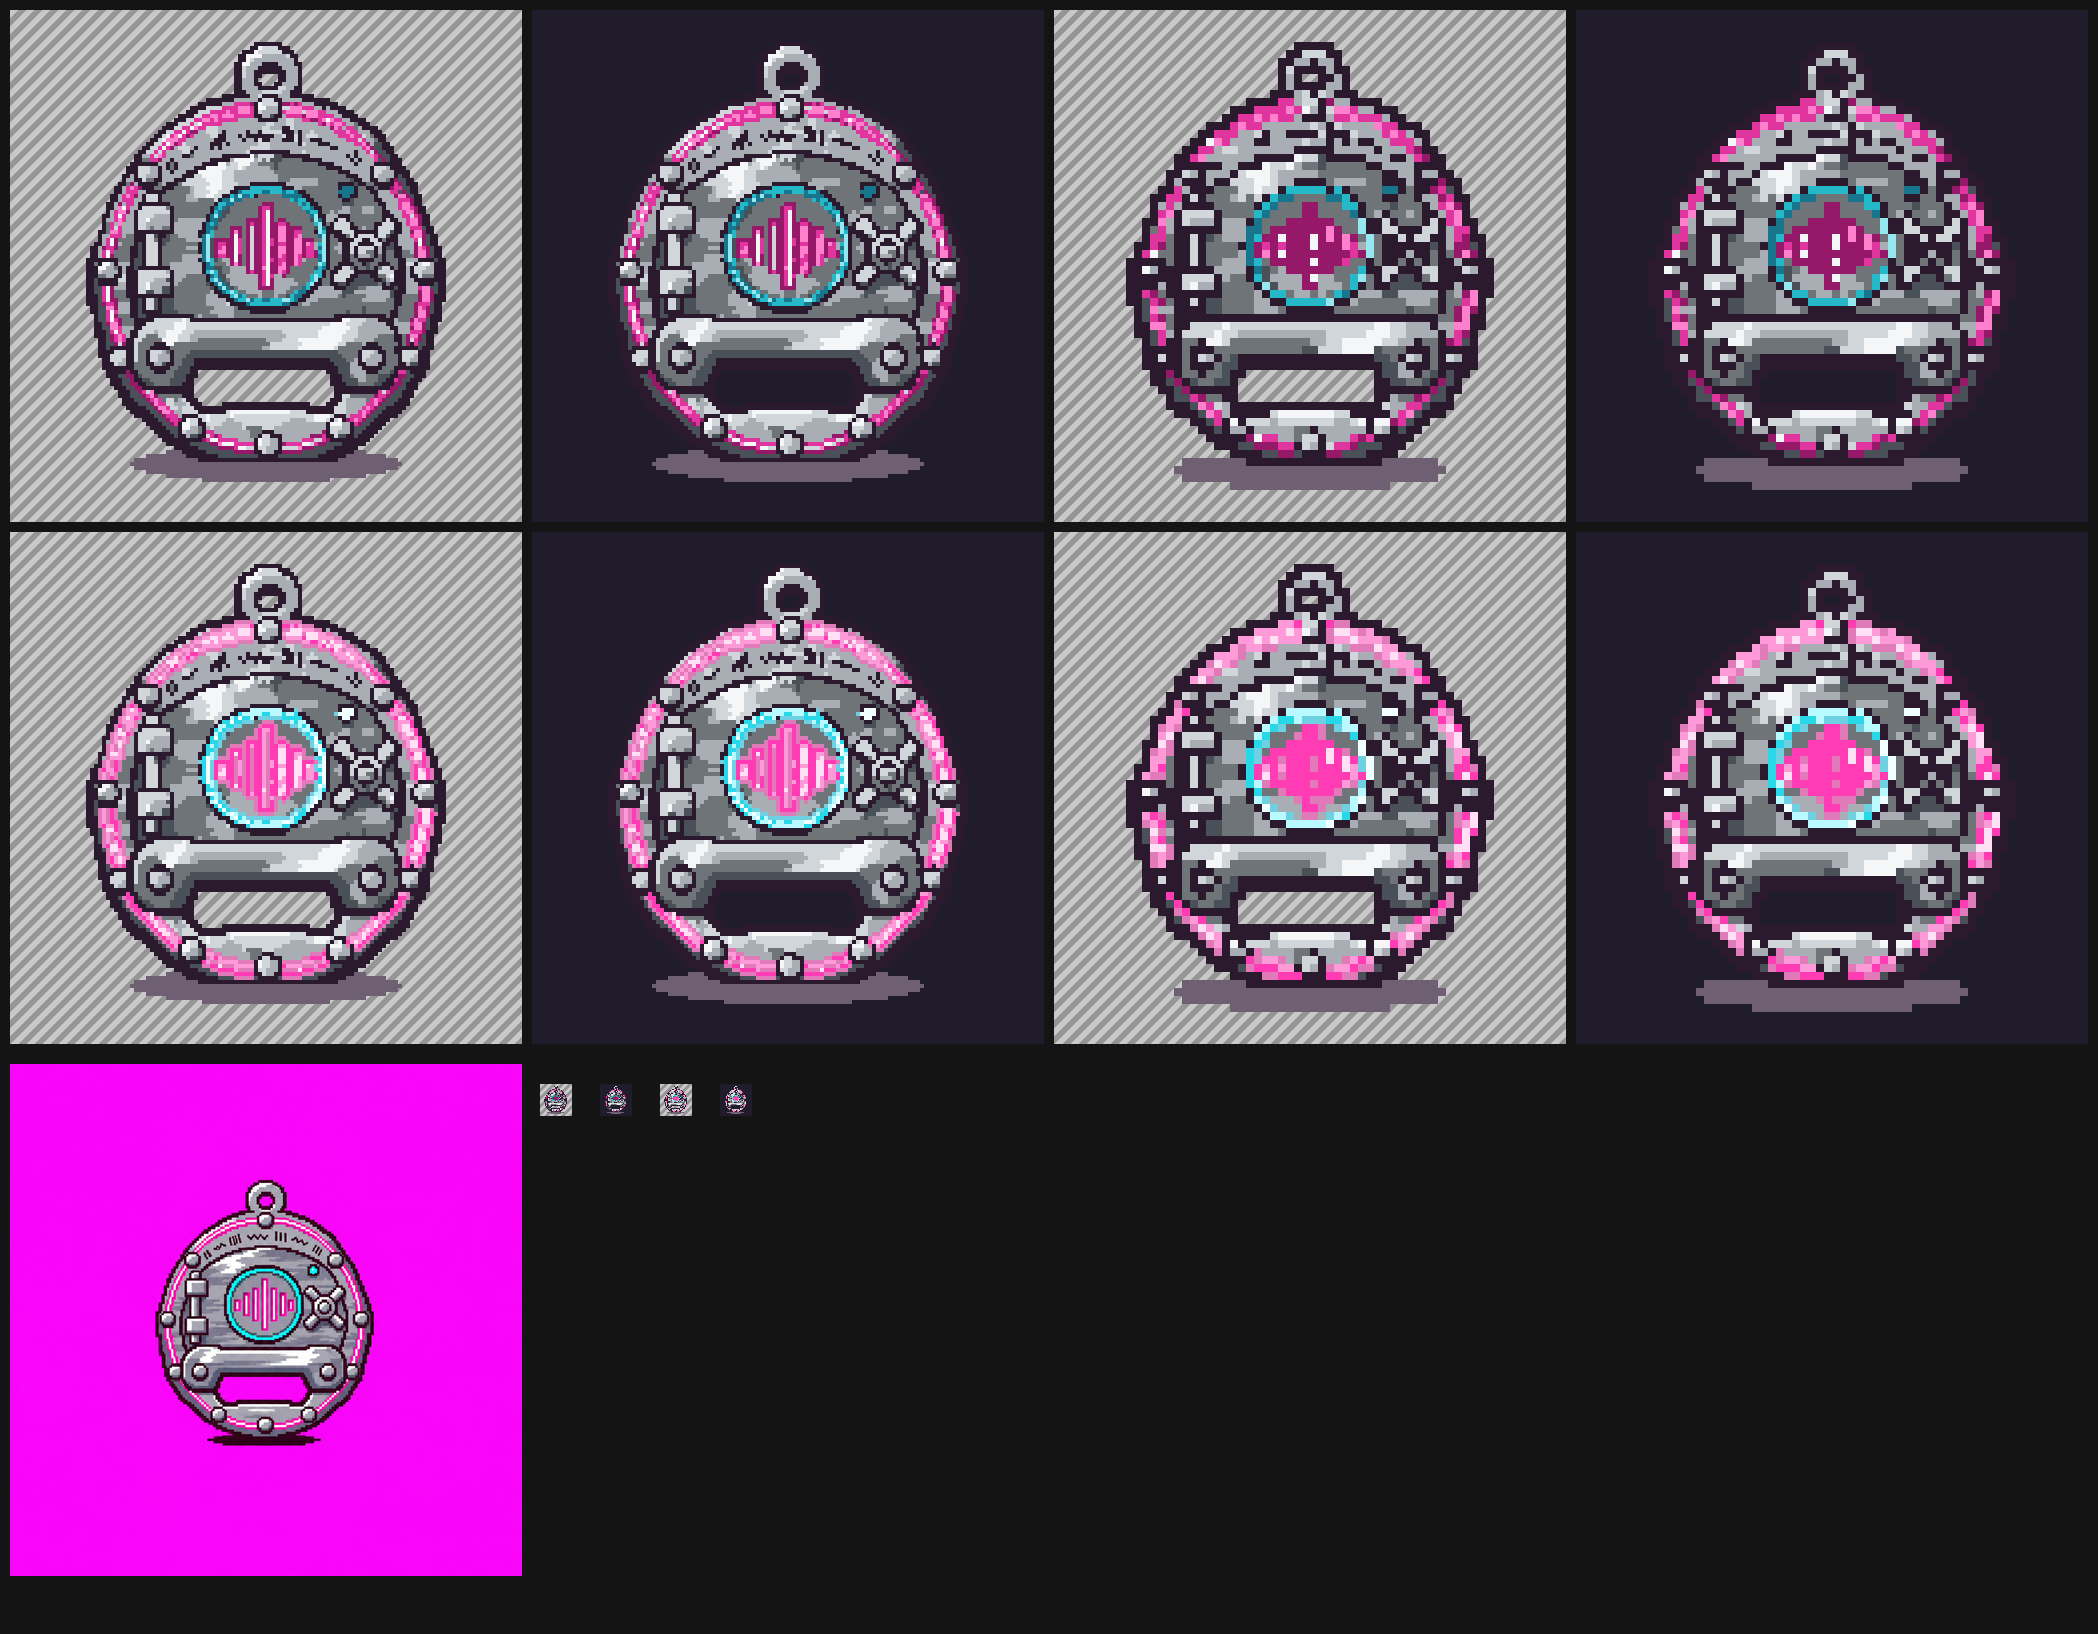
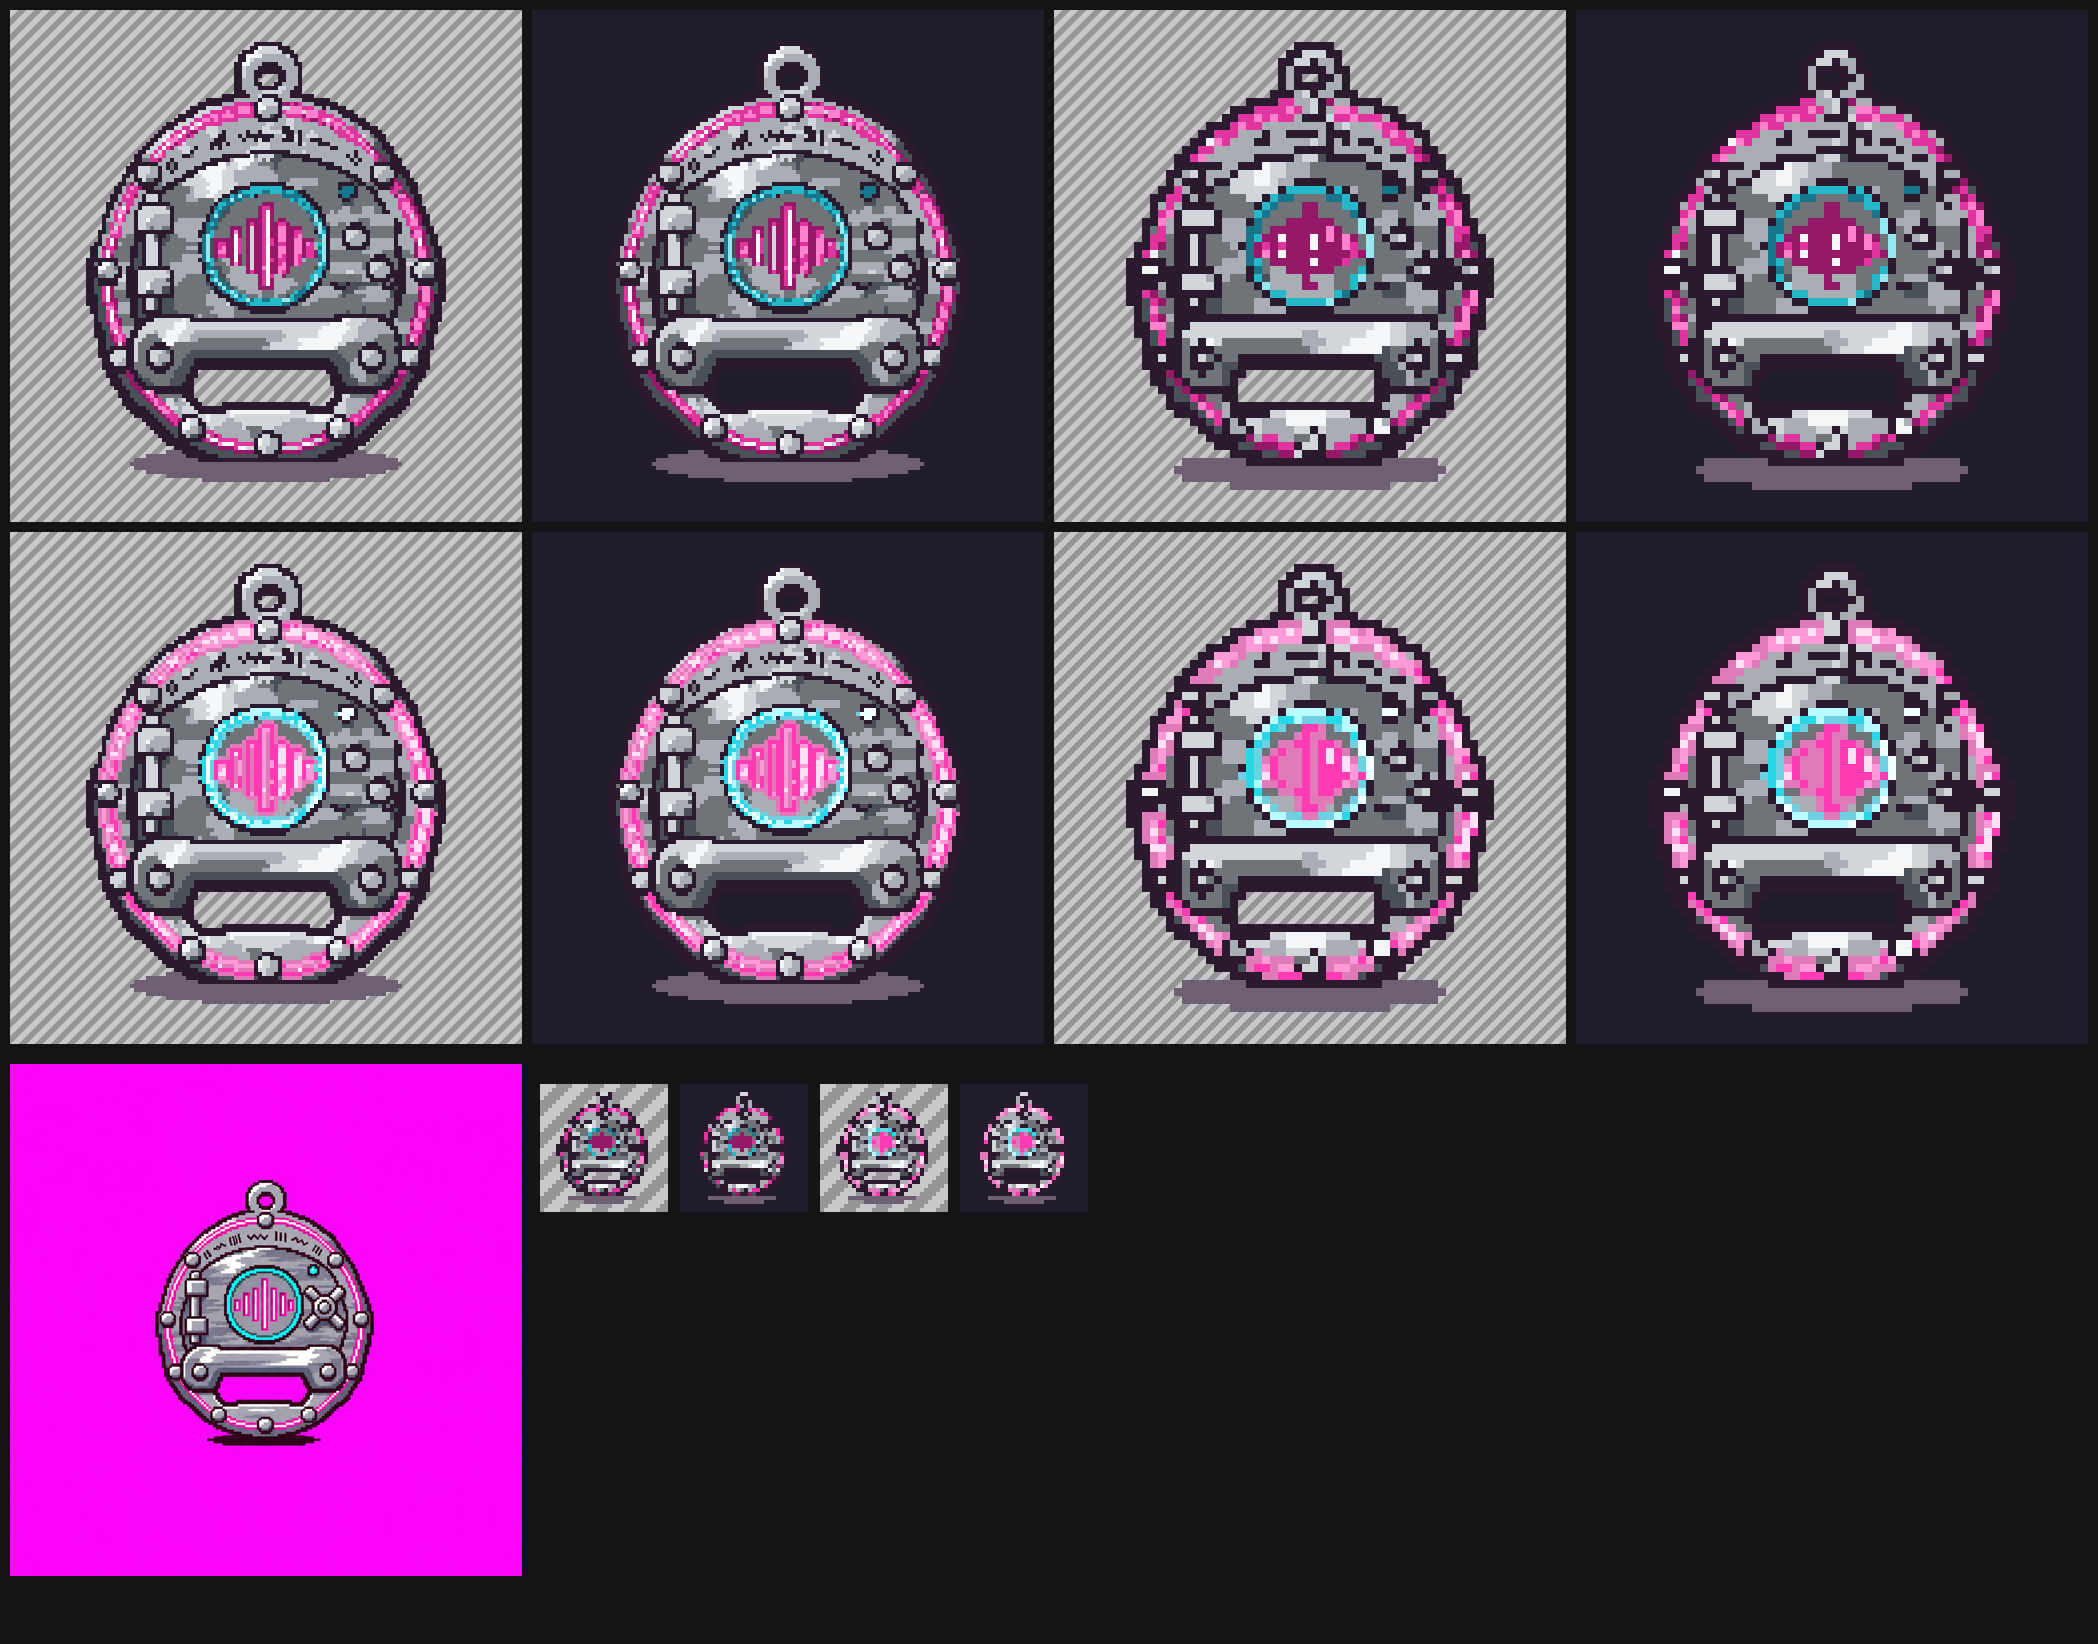
art(debaucheryville): Tap Dat Vault opener, remove valve wheel (face read), calm 64 chrome (asset team)
Claude-Session: https://claude.ai/code/session_01Rk2Ri3vAu7TBhRadSU9CbJ

diff --git a/dev/asset_team/prompts/opener_tap_dat_vault_prompt.md b/dev/asset_team/prompts/opener_tap_dat_vault_prompt.md
@@ -20,6 +20,10 @@ Source pixels were classified (transparent, dark line, chrome, pink neon, cyan n
 
 Magenta keyed (the opener slot stays transparent), generator shadow cut off below row 906 of the 1254 px raw, largest component kept, resampled to 90x104 on a 128 canvas, outline rebuilt on every 8-neighbour boundary plus 1 px under the base, code-drawn elliptical shadow. 64 is a 2x2 majority of the 128 object layer (opaque when 2 of 4 are, neon wins ties, then outline), 8-neighbour edges recoloured to the outline, shadow redrawn at 64.
 
+## Review fix (code only)
+
+The generator's X-shaped valve wheel sat beside the soundwave window and read as a face (two eyes over the slot mouth). It was removed in code on base and glow: the area (x 80-95, y 51-67 at 128) was patched with brushed-chrome bands plus two rivets cloned from the bottom rim rivet, then the 64 was rebuilt from the patched 128 with one extra 3x3 majority on the chrome pixels only (neon and outline untouched). The raw keeps the wheel; the hinge bar on the left stays.
+
 ## Choices where the doc is silent
 
-Keyring loop at the top (it is a keychain clip-on), a valve-wheel handle on the right of the door and a hinge bar on the left (generator dressing on a vault door), seven-bar soundwave, LED upper right, pink rim trim.
+Keyring loop at the top (it is a keychain clip-on), a hinge bar on the left (generator dressing on a vault door), seven-bar soundwave, LED upper right, pink rim trim.
